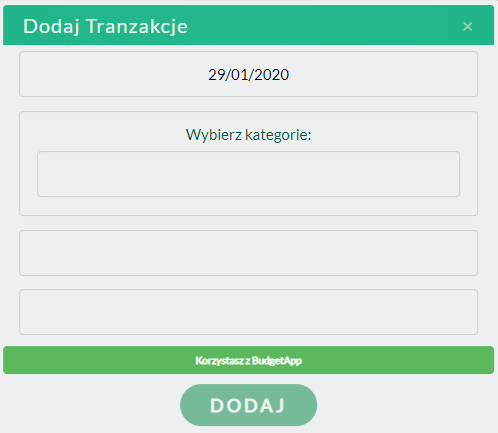
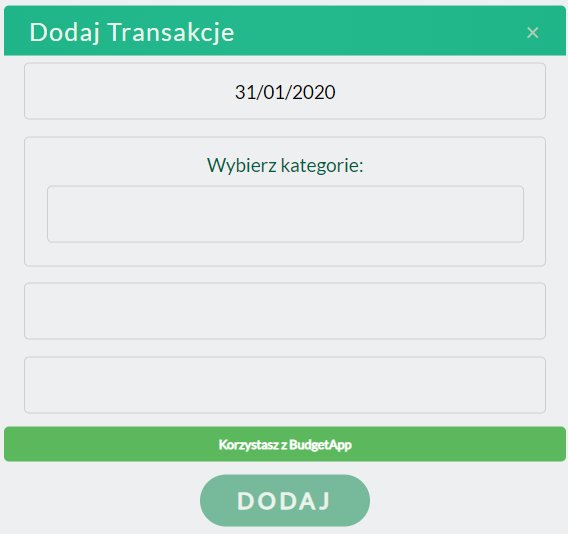
fix images

diff --git a/css/style.css b/css/style.css
@@ -325,17 +325,17 @@ section .title {
 }
 .category {
   position: absolute;
-  top: 195px;
+  top: 210px;
   left: 80px;
 }
 .description {
   position: absolute;
-  top: 279px;
+  top: 300px;
   left: 80px;
 }
 .amount {
   position: absolute;
-  top: 341px;
+  top: 368px;
   left: 80px;
 }
 .expenses-text h3 {
@@ -373,17 +373,17 @@ section .title {
 }
 .category-1 {
   position: absolute;
-  top: 195px;
+  top: 210px;
   left: 80px;
 }
 .description-1 {
   position: absolute;
-  top: 279px;
+  top: 300px;
   left: 80px;
 }
 .amount-1 {
   position: absolute;
-  top: 341px;
+  top: 368px;
   left: 80px;
 }
 /* about */
